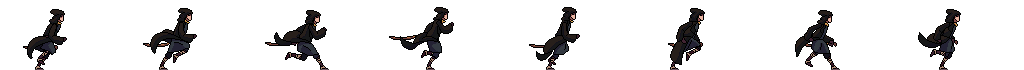
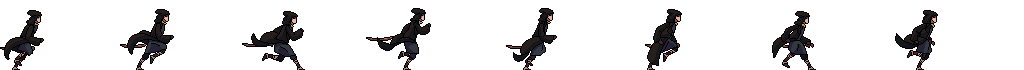
Sprite animation

diff --git a/phaser_base_3_niveaux/src/index.js b/phaser_base_3_niveaux/src/index.js
@@ -44,7 +44,7 @@ var config = {
       gravity: {
         y: 300 // gravité verticale : acceleration ddes corps en pixels par seconde
       },
-      debug: false // permet de voir les hitbox et les vecteurs d'acceleration quand mis à true
+      debug: true // permet de voir les hitbox et les vecteurs d'acceleration quand mis à true
     }
   },
   scene: {
@@ -104,19 +104,20 @@ function preload() {
    this.load.image("orange", "src/assets/Yellow_crystal3.png"); 
 
    this.load.spritesheet("img_perso", "src/assets/Idle.png", {
-    spacing: 48,
-    frameWidth: 80,
-    frameHeight: 73
+    spacing: 46,
+    frameWidth: 82,
+    frameHeight: 73,
+    
   }); 
   this.load.spritesheet("gauche", "src/assets/Run2.png", {
-    spacing: 48,
     frameWidth: 80,
-    frameHeight: 70
+    frameHeight: 70,
+    spacing: 48
   }); 
   this.load.spritesheet("droite", "src/assets/Run.png", {
-    spacing: 48,
     frameWidth: 80,
-    frameHeight: 70
+    frameHeight: 70,
+    spacing: 48
   }); 
 }
 
